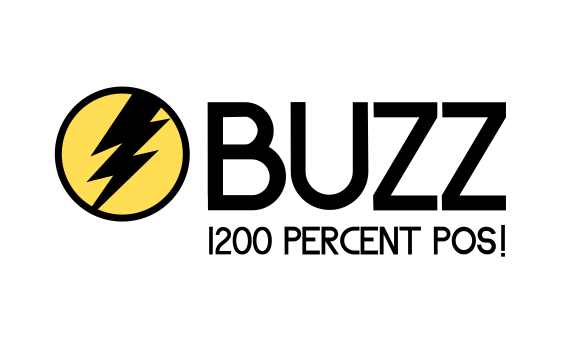
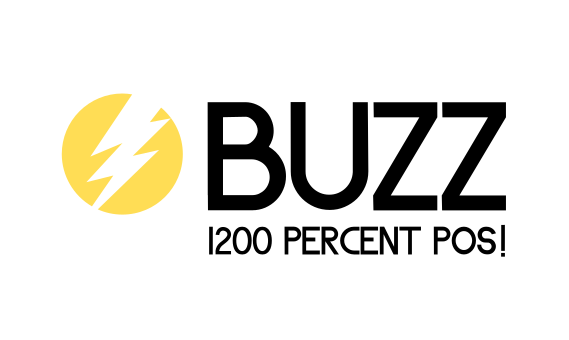
move all new site stuff over

Changed region(s): [[0.0896, 0.2353, 0.3585, 0.6765]]

diff --git a/index.html b/index.html
@@ -116,29 +116,96 @@
     <div class="container wow fadeInUp">
       <div class="row">
         <div class="col-md-12">
-          <h3 class="section-title">BUZZCOIN PROJECT</h3>
+          <h3 class="section-title">THE BUZZCOIN PROJECT</h3>
           <div class="section-title-divider"></div>
           <p class="section-description">Our aim is to create a buzz in the crypto world by presenting a new Proof of Stake coin with one of the highest
             ROI rates available.</p>
         </div>
       </div>
+      <div class="row">
+        <div class="col-md-12">
+          <h2 class="about-title">WALLET AND BOOTSTRAP LIVE - 20.09.2017</h2>
+          <img style="width: 100%;" src="img/news_wallet.png" />
+          <p class="about-text">
+            You can find Wallet Version 2.0 and the fitting Bootstrap at the Download section. YoBit is already informed, we let you
+            know once Exchanges went live again!
+          </p>
+          <p class="about-text">
+            Please download the Bootstrap and Wallet.exe ! Backup your Wallet.dat before you start with the Update. Unzip the content
+            of your bootstrap into your %appdata%/Roaming/buzzcoin folder - also unzip the buzzcoin node into that folder,
+            then restart your wallet and it shall sync.
+          </p>
+          <p class="about-text">
+            <a href="https://mega.nz/#!VV8Wgb6J!QNUJttS96jEyTdfzrekdbMLV1v2jR2pzlKWvzpRvyHs" target="_blank">WALLET</a> -
+            <a href="https://mega.nz/#!Qdp0VJLZ!GGouAADF8MAjthwMGlSQZipDZ2JUefBvDvj1TgvkRvQ" target="_blank">BOOTSTRAP</a>            - <a href="https://mega.nz/#!EOwHUCzY!NnWhmdAbcmhZyyPk8XNtQbvSLecGFLSI12Sg1-VEcYY" target="_blank">NODES</a>
+          </p>
+          <h2 class="about-title">YOBIT CONFIRMATION - WALLET UPDATE! - 19.09.2017</h2>
+          <img style="width: 100%;" src="img/news_wallet.png" />
+          <p class="about-text">
+            We just received word from Yobit that they have paused BUZZ withdrawals and deposits temporarily as we prepare for the update.
+            We will be pushing the update to Github and releasing the wallet at 9:30pm Pacific Time. We will be releasing
+            a new bootstrap to help sync to the new chain as well. This is an exciting time for The BUZZCOIN Project, we
+            are thankful for the support of the community!
+          </p>
+          <h2 class="about-title">WALLET UPDATE READY! - 17.09.2017</h2>
+          <img style="width: 100%;" src="img/news_wallet.png" />
+          <p class="about-text">
+            We want to thank the community that has been involved in and supporting BUZZCOIN. We started this project to create a unique
+            high pos coin that would hold its value using high transaction fees encouraging users to store and stake their
+            BUZZ instead of immediately selling off the stake earned. We will be releasing a hard fork update to rebrand
+            and resolve the issues addressed below: </p>
+          <p class="about-text">
+            -Increase coin supply to 10 Billion BUZZ. With the coin sitting mostly dormant for a while, minimal fees were being burned
+            so coin supply increased)
+          </p>
+          <p class="about-text">
+            -Increase max fee to 1 Billion BUZZ. (Our original max fee was based off of a much higher price and fewer coin supply. We
+            will be increasing the max fee to make the fees fair to large and small stakers alike)
+          </p>
+          <p class="about-text">
+            -100% of fees will be burnt. (Will be burning 100% of fees to control inflation)
+          </p>
+          <p class="about-text">
+            -25% txFee fix. (There was a bug in the 25% txFee code that would sometimes charge random amounts. This has been fixed. Percentage
+            based txFees have never been done before the way that we are implementing them. This is what makes BUZZCOIN unique)
+          </p>
+          <p class="about-text">
+            -New look (We have rebranded BUZZCOIN'S Image including new icons and splash screen)
+          </p>
+          <p class="about-text">
+            -Coin Control (We know a lot of users are asking for no fee when sending to yourself. We are considering this and looking
+            at the code involved but it is tricky. We are very happy with the current situation as not being able to combine
+            blocks with out paying a fee has stabilized our difficulty allowing all size stakers the ability to more consistently
+            mine pos blocks than other similar coins. We will open a discussion on Discord to see where the community wants
+            to take the coin control features)
+          </p>
+          <p class="about-text">
+            We look forward to the future of The BUZZCOIN Project and are thankful for the support of the crypto community. WE WILL BE
+            ANNOUNCING THE WALLET RELEASE AND FORK DATE AS SOON AS WE HAVE A CONFIRMATION FROM EXCHANGES THAT THEY WILL BE
+            READY AND PUT THEIR WALLETS IN MAINTENANCE.
+          </p>
+        </div>
+      </div>
     </div>
     <div class="container about-container wow fadeInUp">
+
       <div class="row">
-        <div class="col-md-6 col-md-push-6 about-content">
+        <div class="col-md-6">
+          <img src="img/about.png" />
+        </div>
+        <div class="col-md-6 about-content">
           <h2 class="about-title">Working together with the Community!</h2>
           <p class="about-text">
-            We are an experienced team of Developers & Designers trying to improove Buzzcoin Project continuously.
+            We are an experienced team of Developers & Designers actively developing the Buzzcoin Project through community engagement.
           </p>
           <p class="about-text">
-            With an interest rate of 100% per Month Buzzcoin is one of the most profitable Proof of Stake coins available. Right now
-            the total coin supply is 2.000.000.000 BUZZ. We are using 25% TXFees capped at 50.000 BUZZ to avoid that people
-            buy and instant dump. After maximum 10 days of staking (usualy around 1-2) you will be in profit with every amount
-            you have started.
+            Buzzcoin is being actively developed as a Proof of Stake (PoS) coin, with a current interest rate of 100% per month. This
+            makes Buzzcoin one of the most profitable PoS coins available. The total coin supply is 2,000,000,000 BUZZ. We
+            are actively working against Buzzcoin becoming a pump and dump coin by using 25% TXFees capped at 50,000 BUZZ.
           </p>
           <p class="about-text">
-            We try to listen to our community and prepared a roadmap based on your wishes! You can discuss with us anytime at our social
-            media channels.
+            Listening to the community, we have produced a new roadmap to take Buzzcoin forward. We encourage you to become part of this
+            community through Telegram, Discord and Twitter.
           </p>
         </div>
       </div>
@@ -161,12 +228,12 @@
       <div class="row">
         <div class="col-md-4 service-item">
           <div class="service-icon"><i class="fa fa-windows"></i></div>
-          <h4 class="service-title"><a target="_blank" href="https://mega.nz/#!oZkT0YQB!BqVMwdsoubOFcGPa8oFITSDSUJgmkWMFHQNd147ShZ8">Windows Wallet</a></h4>
-          <p class="service-description">Release Version v1.2.0.0-g32a928e</p>
+          <h4 class="service-title"><a target="_blank" href="https://mega.nz/#!VV8Wgb6J!QNUJttS96jEyTdfzrekdbMLV1v2jR2pzlKWvzpRvyHs">Windows Wallet</a></h4>
+          <p class="service-description">Release Version v2.0.0.0-g32a928e</p>
         </div>
         <div class="col-md-4 service-item">
           <div class="service-icon"><i class="fa fa-link"></i></div>
-          <h4 class="service-title"><a target="_blank" href="https://mega.nz/#!pBxQTSCC!uA0fww20G8_xSmA0L74cGGnhICejN-aOmX4DnuIfLi0">Bootstrap</a></h4>
+          <h4 class="service-title"><a target="_blank" href="https://mega.nz/#!Qdp0VJLZ!GGouAADF8MAjthwMGlSQZipDZ2JUefBvDvj1TgvkRvQ">Bootstrap</a></h4>
           <p class="service-description">Bootstrap from September 2017 for almost instant Wallet synchronization.</p>
         </div>
         <div class="col-md-4 service-item">

diff --git a/css/style.css b/css/style.css
@@ -351,7 +351,8 @@ body.mobile-nav-active {
   background: #fff;
   margin-top: 64px; }
   #about .about-container {
-    background: url(../img/about-img.jpg) left top no-repeat; }
+    background: url(../img/about-img.jpg) left top no-repeat;
+    margin-top: 48px; }
   #about .about-content {
     background: #fff; }
   #about .about-title {

diff --git a/scss/sections/about.scss b/scss/sections/about.scss
@@ -4,6 +4,7 @@
 
   .about-container {
     background: url(../img/about-img.jpg) left top no-repeat;
+    margin-top: 48px;
   }
 
   .about-content {
